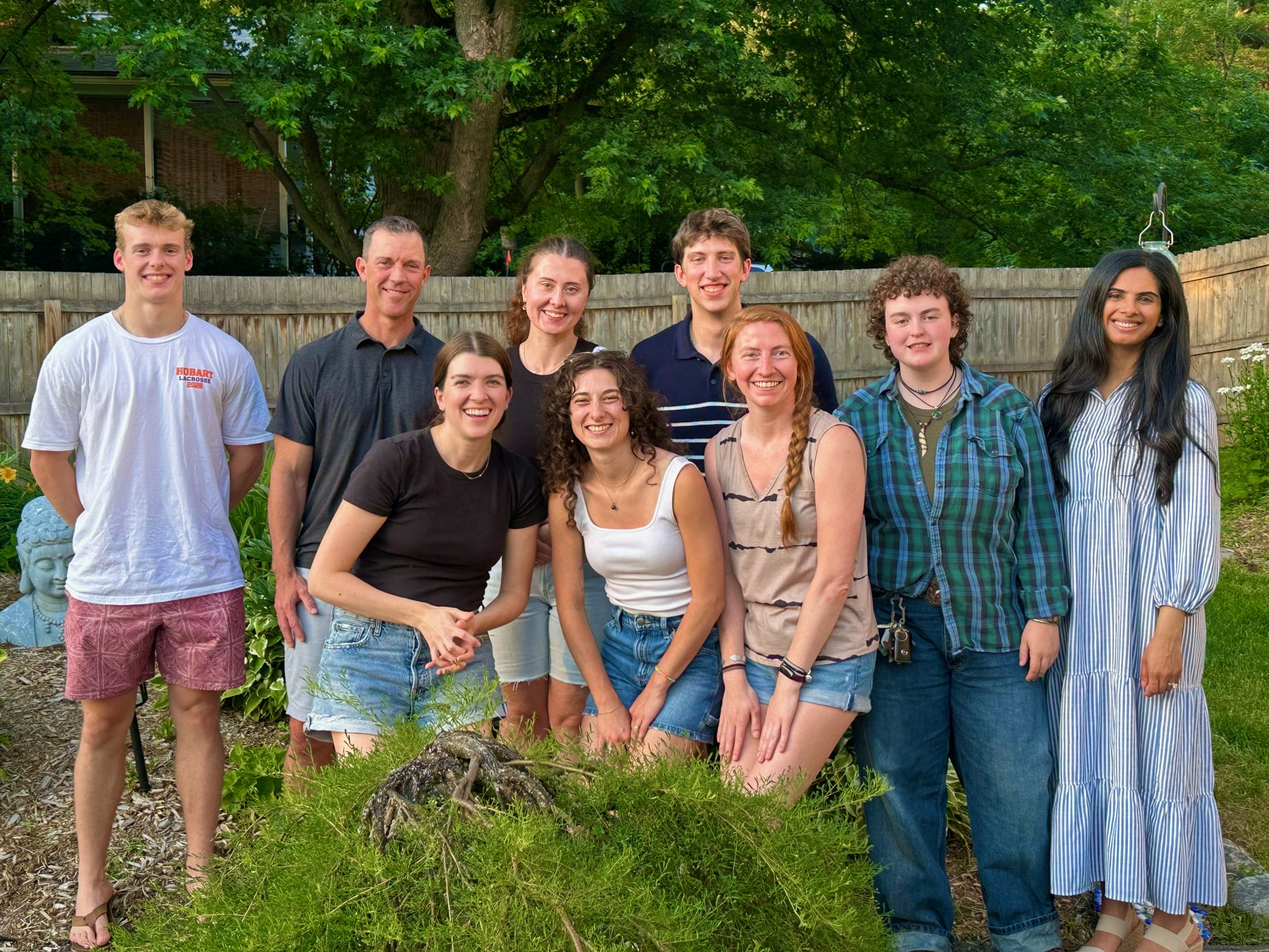
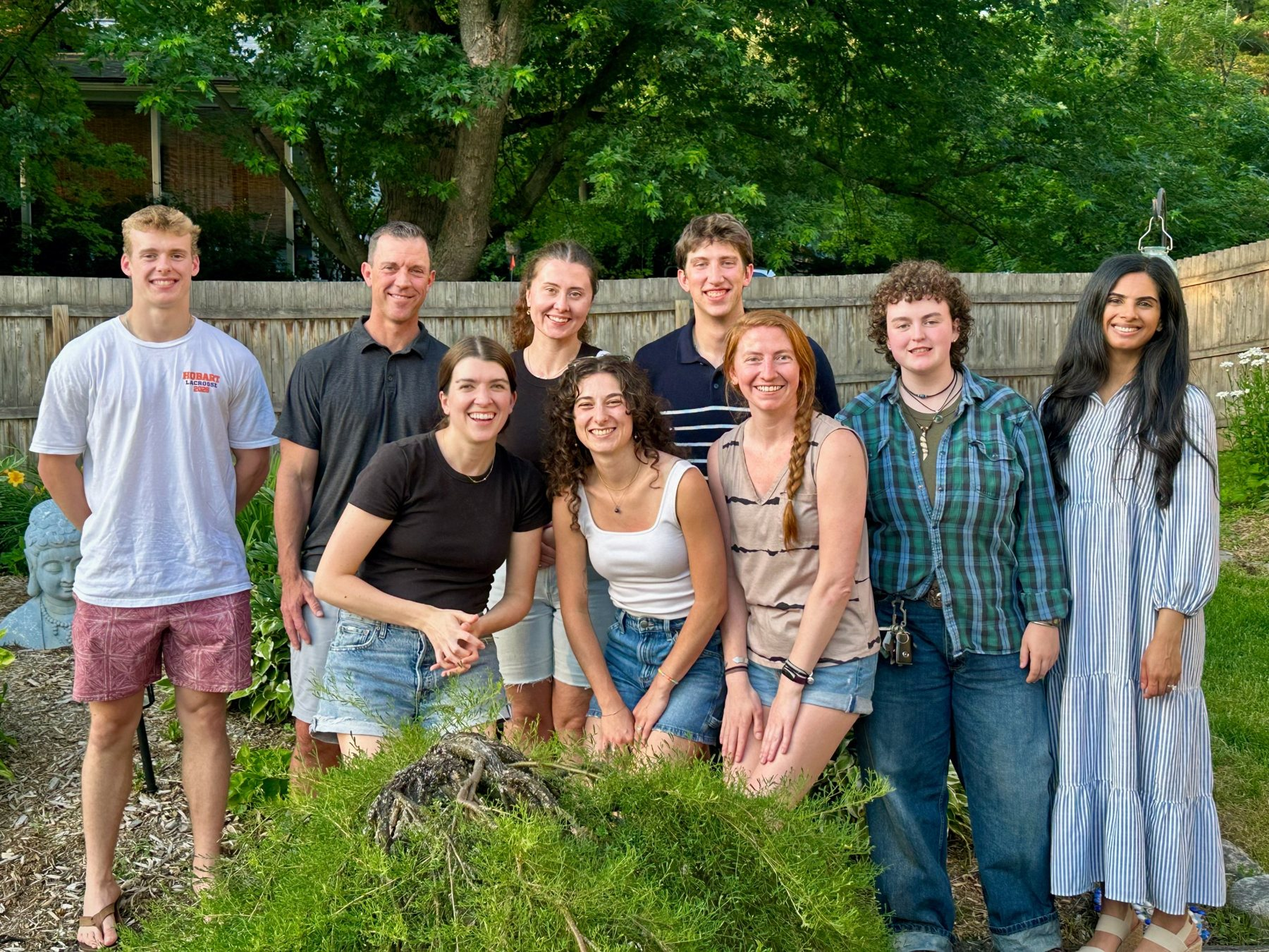
Replace lab photo
Claude-Session: https://claude.ai/code/session_01UPDjymevHVsg8Usx9JxUAi

diff --git a/index.html b/index.html
@@ -423,7 +423,7 @@ footer { padding-block: 40px; border-top: 1px solid var(--line); color: var(--mu
       <h2>Who's in the lab?</h2>
     </div>
     <figure class="labphoto">
-      <img src="media/lab-photo.jpg" alt="Stumpff lab members standing together outdoors in summer" width="1800" height="1350">
+      <img src="media/lab-photo.jpg" alt="Stumpff lab members standing together in a backyard garden in summer" width="1800" height="1351">
       <figcaption>The Stumpff lab.</figcaption>
     </figure>
     <div class="people">
